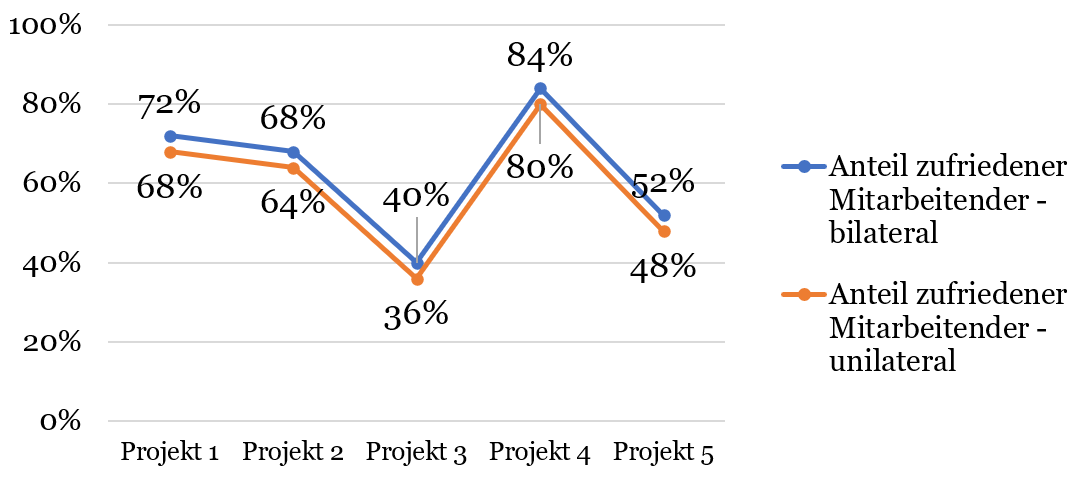
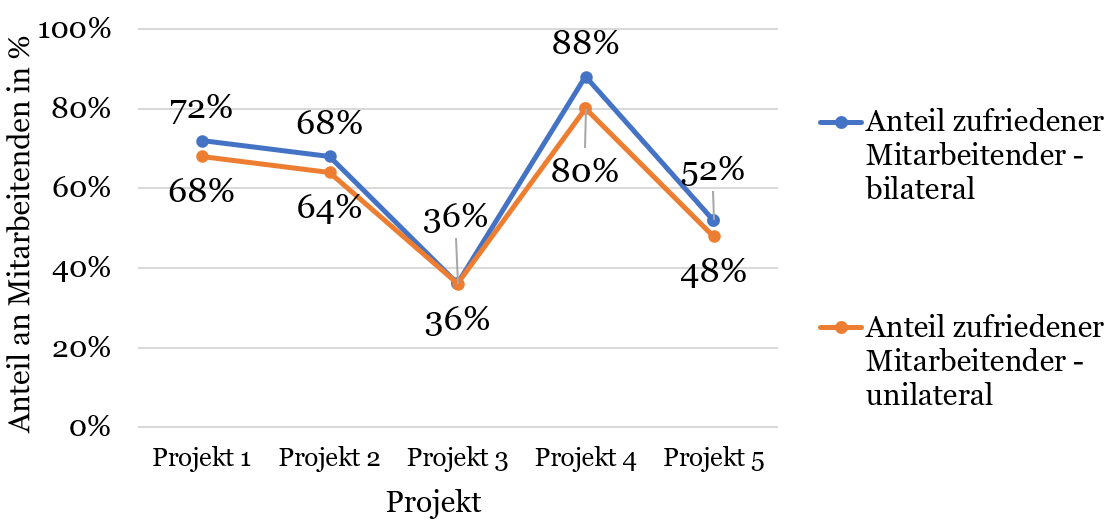
Weiterführen ergebnisse

diff --git a/chapters/ergebnisse.tex b/chapters/ergebnisse.tex
@@ -199,42 +199,108 @@ Für die Ermittlung der Auswirkung des bilateralen Algorithmus auf die Arbeitsle
 Hierbei wurden die Anteile jedoch anhand der Mitarbeitenden des unilateralen bzw. des bilateralen Rankings ermittelt, deren Arbeitsleistung von den Mitarbeitenden in dem jeweiligen Projekt als hoch eingestuft wurden.
 
 Insgesamt wurde die Veränderung der Anteile von unilateralem zu bilateralem Algorithmus je Kennzahl (Zufriedenheit, Arbeitsleistung) für 25 Projekte ermittelt (5 Samples \`{a} 5 Projekte).
-Die Veränderung der Anteile unter Einsatz des unilateralen Algorithmus zu den Anteilen unter Anwendung des bilateralen Algorithmus ist in Abbildung \ref{fig:ergebnisse:abb8} grafisch dargestellt.
-Die Abbildung stellt je Kennzahl dar, bei wie vielen der Projekte der Anteil durch den bilateralen Algorithmus im Verhältnis zum unilateralen Algorithmus gestiegen, gesunken oder gleich geblieben ist.
-Neben der Anzahl an Projekten ist in der Abbildung darüber hinaus abgebildet, in welchem Projekt eine Änderung erzielt wurde.
+% Die Veränderung der Anteile unter Einsatz des unilateralen Algorithmus zu den Anteilen unter Anwendung des bilateralen Algorithmus ist in Abbildung \ref{fig:ergebnisse:abb8} grafisch dargestellt.
+% Die Abbildung stellt je Kennzahl dar, bei wie vielen der Projekte der Anteil durch den bilateralen Algorithmus im Verhältnis zum unilateralen Algorithmus gestiegen, gesunken oder gleich geblieben ist.
+% Neben der Anzahl an Projekten ist in der Abbildung darüber hinaus abgebildet, in welchem Projekt eine Änderung erzielt wurde.
+
+% \begin{figure}[H]
+%     \centering
+% 	\includegraphics[width=0.9\textwidth]{gfx/verhaeltnis-z-a-projekte.png}
+% 	\caption[Veränderung der Zufriedenheit und erwarteten Arbeitsleistung der Mitarbeitenden von unilateralem zu bilateralem Algorithmus nach Projekt]{Veränderung der Zufriedenheit und erwarteten Arbeitsleistung der Mitarbeitenden von unilateralem zu bilateralem Algorithmus nach Projekt}
+% 	\label{fig:ergebnisse:abb8}
+% \end{figure}
+
+% Aus Abbildung \ref{fig:ergebnisse:abb8} geht hervor, dass in dem Experiment bei einem Großteil der Fälle sowohl hinsichtlich der Auswirkungen auf die Zufriedenheit als auch der zu erwartenden Arbeitsleistung weder eine Verschlechterung noch eine Verbesserung festgestellt werden konnte.
+% Weiter ist zu erkennen, dass die Anzahl an Fällen mit Verbesserungen des Anteils unter Einsatz des bilateralen Algorithmus bei beiden Kennzahlen die Anzahl an Fällen mit Verschlechterungen durch Anwendung des bilateralen Algorithmus übersteigt.
+% Ein Vergleich der der Veränderungen bei beiden Kennzahlen zeigt darüber hinaus, dass die Zufriedenheit im Verhältnis zu der erwarteten Arbeitsleistung in mehr Fällen gestiegen ist.
+% Zugleich führte der bilaterale Algorithmus in zwei Fällen zu einer Verschlechterung der zu erwarteten Arbeitsleistung und in einem Fall zu einer Verschlechterung der Zufriedenheit.
+Nachfolgend werden die Auswirkungen auf die Kennzahlen im Detail betrachtet.
+
+\subsection{Auswirkung auf die Zufriedenheit der Mitarbeitenden}
+In Abbildung \ref{fig:ergebnisse:abb8} ist der durchschnittliche Anteil an zufriedenen Mitarbeitenden an den unilateralen und an den bilateralen Rankings je Projekt dargestellt.
+Der Anteil unter Einsatz des bilateralen Algorithmus ist durch eine blaue Linie dargestellt, während der Anteil unter Anwendung des unilateralen Algorithmus durch eine orangene Linie gekennzeichnet ist.
+Abbildung \ref{fig:ergebnisse:abb8} zeigt, dass der Anteil zufriedener Mitarbeitender unter Einsatz des bilateralen Algorithmus für vier der fünf Projekt im Mittel über dem Anteil unter Anwendung des unilateralen Algorithmus lag.
+Lediglich bei Projekt 3 ist zu erkennen, dass der durchschnittliche Anteil zufriedener Mitarbeitender durch den Einsatz des bilateralen Algorithmus nicht stieg.
+% Im Mittel wurden demnach in dem Experiment sample-und projektübergreifend durch Einsatz des bilateralen Algorithmus vermehrt Mitarbeitende empfohlen, die eine hohe Zufriedenheit für die jeweiligen Projekte angaben.
 
 \begin{figure}[H]
     \centering
-	\includegraphics[width=0.9\textwidth]{gfx/verhaeltnis-z-a-projekte.png}
-	\caption[Veränderung der Zufriedenheit und erwarteten Arbeitsleistung der Mitarbeitenden von unilateralem zu bilateralem Algorithmus nach Projekt]{Veränderung der Zufriedenheit und erwarteten Arbeitsleistung der Mitarbeitenden von unilateralem zu bilateralem Algorithmus nach Projekt}
+	\includegraphics[width=0.95\textwidth]{gfx/verhaeltnis-z-durchschnitt-projekte.png}
+	\caption[Anteil zufriedener Mitarbeitender in unilateralen und bilateralen Rankings je Projekt im Mittel]{Anteil zufriedener Mitarbeitender in unilateralen und bilateralen Rankings je Projekt im Mittel}
 	\label{fig:ergebnisse:abb8}
 \end{figure}
 
-Aus Abbildung \ref{fig:ergebnisse:abb8} geht hervor, dass in dem Experiment bei einem Großteil der Fälle sowohl hinsichtlich der Auswirkungen auf die Zufriedenheit als auch der zu erwartenden Arbeitsleistung weder eine Verschlechterung noch eine Verbesserung festgestellt werden konnte.
-Weiter ist zu erkennen, dass die Anzahl an Fällen mit Verbesserungen des Anteils unter Einsatz des bilateralen Algorithmus bei beiden Kennzahlen die Anzahl an Fällen mit Verschlechterungen durch Anwendung des bilateralen Algorithmus übersteigt.
-Ein Vergleich der der Veränderungen bei beiden Kennzahlen zeigt darüber hinaus, dass die Zufriedenheit im Verhältnis zu der erwarteten Arbeitsleistung in mehr Fällen gestiegen ist.
-Zugleich führte der bilaterale Algorithmus in zwei Fällen zu einer Verschlechterung der zu erwarteten Arbeitsleistung und in einem Fall zu einer Verschlechterung der Zufriedenheit.
-Nachfolgend werden die Auswirkungen auf die beiden Kennzahlen im Detail betrachtet.
-
-\subsection{Auswirkung auf die Zufriedenheit der Mitarbeitenden}
-In Abbildung ... ist zu erkennen, dass es bei 18 der insgesamt 25 Fälle keine Änderung zwischen dem Anteil zufriedener Mitarbeitender unter Einsatz des unilateralen Algorithmus und dem Anteil zufriedener Mitarbeitender unter Anwendung des bilateralen Algorithmus gegeben hat.
-
-In Abbildung \ref{fig:ergebnisse:abb9} ist der durchschnittliche Anteil an zufriedenen Mitarbeitenden an den unilateralen und an den bilateralen Rankings je Projekt dargestellt.
-Daran ist zu erkennen, dass sample-und projektübergreifend durch Einsatz des bilateralen Algorithmus vermehrt Mitarbeitende empfohlen wurden, die eine hohe Zufriedenheit für die jeweiligen Projekte angaben.
+Für eine detailliertere Betrachtung der Auswirkung auf die Zufriedenheit ist die Veränderung der Anteile unter Einsatz des unilateralen Algorithmus zu den Anteilen unter Anwendung des bilateralen Algorithmus je Sample und Projekt in Abbildung \ref{fig:ergebnisse:abb9} dargestellt.
+Die Abbildung zeigt, bei wie vielen der Projekte der Anteil zufriedener Mitarbeitender durch den bilateralen Algorithmus im Verhältnis zum unilateralen Algorithmus gestiegen, gesunken oder gleich geblieben ist.
+Neben der Anzahl an Projekten ist in der Abbildung darüber hinaus abgebildet, in welchem Projekt die jeweilige Änderung erzielt wurde.
 
 \begin{figure}[H]
     \centering
-	\includegraphics[width=0.9\textwidth]{gfx/verhaeltnis-z-durchschnitt-projekte.png}
-	\caption[Anteil zufriedener Mitarbeitender in unilateralen und bilateralen Rankings je Projekt im Mittel]{Anteil zufriedener Mitarbeitender in unilateralen und bilateralen Rankings je Projekt im Mittel}
+	\includegraphics[width=0.95\textwidth]{gfx/verhaeltnis-z-projekte.png}
+	\caption[Veränderung der Zufriedenheit der Mitarbeitenden von unilateralem zu bilateralem Algorithmus nach Projekt]{Veränderung der Zufriedenheit der Mitarbeitenden von unilateralem zu bilateralem Algorithmus nach Projekt}
 	\label{fig:ergebnisse:abb9}
 \end{figure}
 
-\subsection{Auswirkung auf die erwartete Arbeitsleistung der Mitarbeitenden durch die Manager}
-Ein ähnliches Muster wird bei Betrachtung der Auswirkung auf die zu erwartende Arbeitsleistung der Mitarbeitenden durch die Manager deutlich.
-Die Anzahl an Fällen ohne Änderung zwischen dem Anteil an Mitarbeitenden mit zu erwartend hoher Arbeitsleistung durch Einsatz des unilateralen Algorithmus und dem Anteil an Mitarbeitenden mit zu erwartend hoher Arbeitsleistung unter Anwendung des bilateralen Algorithmus lag hier bei 19.
+Aus Abbildung \ref{fig:ergebnisse:abb9} geht hervor, dass in dem Experiment bei 16 der 25 Fälle hinsichtlich der Auswirkungen auf die Zufriedenheit weder eine Verschlechterung noch eine Verbesserung festgestellt werden konnte.
+Weiter ist zu erkennen, dass durch den Einsatz des bilateralen Algorithmus in 28 Prozent der Fällen (7 von 25) eine Steigerung der Zufriedenheit unter den empfohlenen Mitarbeitenden erzielt wurde.
+Lediglich in zei der 25 Fälle führte der Einsatz des bilateralen Algorithmus zu einer Reduktion des Anteils zufriedener Mitarbeitender im Vergleich zu dem Anteil unter Anwendung des unilateralen Algorithmus.
+Aus der Abbildung geht hervor, dass beide Fälle bei Projekt 3 auftraten (hellblauer Balken bei "gesunken").
 
+% Ein Vergleich der der Veränderungen bei beiden Kennzahlen zeigt darüber hinaus, dass die Zufriedenheit im Verhältnis zu der erwarteten Arbeitsleistung in mehr Fällen gestiegen ist.
+% Zugleich führte der bilaterale Algorithmus in zwei Fällen zu einer Verschlechterung der zu erwarteten Arbeitsleistung und in einem Fall zu einer Verschlechterung der Zufriedenheit.
+
+\subsection{Auswirkung auf die erwartete Arbeitsleistung der Mitarbeitenden}
+Hinsichtlich der zu erwartenden Arbeitsleistung der Mitarbeitenden ist in Abbildung \ref{fig:ergebnisse:abb10} der durchschnittliche Anteil an Mitarbeitenden mit zu erwartend hoher Arbeitsleistung an den unilateralen und an den bilateralen Rankings je Projekt abgebildet.
+Wie für die Zufriedenheit in Abbildung \ref{fig:ergebnisse:abb8} ist der Anteil unter Einsatz des bilateralen Algorithmus durch eine blaue und der Anteil unter Anwendung des unilateralen Algorithmus durch eine orangene Linie gekennzeichnet.
+
+\begin{figure}[H]
+    \centering
+	\includegraphics[width=0.95\textwidth]{gfx/verhaeltnis-a-durchschnitt-projekte.png}
+	\caption[Anteil an Mitarbeitenden mit zu erwartend hoher Arbeitsleistung in unilateralen und bilateralen Rankings je Projekt im Mittel]{Anteil an Mitarbeitenden mit zu erwartend hoher Arbeitsleistung in unilateralen und bilateralen Rankings je Projekt im Mittel}
+	\label{fig:ergebnisse:abb10}
+\end{figure}
+
+Abbildung \ref{fig:ergebnisse:abb10} zeigt, dass der durchschnittliche Anteil an Mitarbeitenden mit zu erwartend hoher Arbeitsleistungunter Einsatz des bilateralen Algorithmus bei Projekt 3 und Projekt 4 im Mittel über dem durchschnittlichen Anteil unter Anwendung des unilateralen Algorithmus lag.
+Weiter ist zu erkennen, dass der Anteil im Durchschnitt in keinem der Projekte unter Anwendung des bilateralen Algorithmus unter dem durchschnittlichen Anteil unter Einsatz des unilateralen Algorithmus lag.
+
+Ein Vergleich der durchschnittlichen Anteile je Projekt aus Abbildung \ref{fig:ergebnisse:abb10} mit den durchschnittlichen Anteilen zufriedener Mitarbeitender je Projekt in Abbildung \ref{fig:ergebnisse:abb8} zeigt, dass die Kurven einen ähnlichen Verlauf aufweisen.
+So ist sowohl der durchschnittliche Anteil zufriedener Mitarbeitender als auch der durchschnittliche Anteil an Mitarbeitenden mit zu erwartend hoher Arbeitsleistung bei Projekt 3 am niedrigsten.
+Zugleich ist der durchschnittliche Anteil beider Kennzahlen bei Projekt 4 am höchsten.
+Eine Ausnahme davon bildet lediglich der durchschnittliche Anteil an Mitarbeitenden mit zu erwartend hoher Arbeitsleistung unter Einsatz des unilateralen Algorithmus.
+Dessen Höhepunkt liegt bei Projekt 1.
+
+Abbildung \ref{fig:ergebnisse:abb11} stellt die Veränderung der Anteile an Mitarbeitenden mit zu erwartend hoher Arbeitsleistung unter Einsatz des unilateralen Algorithmus zu den Anteilen unter Anwendung des bilateralen Algorithmus je Sample und Projekt dar.
+
+\begin{figure}[H]
+    \centering
+	\includegraphics[width=0.95\textwidth]{gfx/verhaeltnis-a-projekte.png}
+	\caption[Veränderung der erwarteten Arbeitsleistung der Mitarbeitenden durch die Manager von unilateralem zu bilateralem Algorithmus nach Projekt]{Veränderung der erwarteten Arbeitsleistung der Mitarbeitenden durch die Manager von unilateralem zu bilateralem Algorithmus nach Projekt}
+	\label{fig:ergebnisse:abb11}
+\end{figure}
+
+Daraus geht hervor, dass in dem Experiment bei 17 der 25 Fälle hinsichtlich der Auswirkungen auf die erwartete Arbeitsleistung weder eine Verschlechterung noch eine Verbesserung festgestellt werden konnte.
+In der Abbildung ist zu erkennen, dass sowohl Projekt 1 als auch Projekt 5 sample-übergreifend überhaupt keine Veränderung aufwiesen (blauer und grauer Balken bei "gleich").
+Weiter ist zu erkennen, dass der Anteil an Mitarbeitenden mit zu erwartend hoher Arbeitsleistung durch den Einsatz des bilateralen Algorithmus sogar in 5 der 25 Fälle im Vergleich zu dem Anteil unter Anwendung des unilateralen Algorithmus gestiegen ist.
+In drei der 25 Fälle führte der Einsatz des bilateralen Algorithmus zu einer Reduktion des Anteils an Mitarbeitenden mit zu erwartend hoher Arbeitsleistung im Vergleich zu dem Anteil unter Anwendung des unilateralen Algorithmus.
+Aus der Abbildung geht hervor, dass diese ReduktionFälle bei Projekt 2 und Projekt 3 auftraten (hellgrauer und -blauer Balken bei "gesunken").
 
 \subsection{Einfluss der Gewichtung von Fähigkeiten und Präferenzen}
+
+\begin{figure}[H]
+    \centering
+	\includegraphics[width=0.95\textwidth]{gfx/verhaeltnis-z-nach-alpha.png}
+	\caption[Anteil zufriedener Mitarbeitender in unilateralen und bilateralen Rankings nach $\alpha$-Wert im Mittel]{Anteil zufriedener Mitarbeitender in unilateralen und bilateralen Rankings nach $\alpha$-Wert im Mittel}
+	\label{fig:ergebnisse:abb12}
+\end{figure}
+
+\begin{figure}[H]
+    \centering
+	\includegraphics[width=0.95\textwidth]{gfx/verhaeltnis-a-nach-alpha.png}
+	\caption[Anteil an Mitarbeitenden mit zu erwartend hoher Arbeitsleistung in unilateralen und bilateralen Rankings nach $\alpha$-Wert im Mittel]{Anteil an Mitarbeitenden mit zu erwartend hoher Arbeitsleistung in unilateralen und bilateralen Rankings nach $\alpha$-Wert im Mittel}
+	\label{fig:ergebnisse:abb13}
+\end{figure}
+
+% GRAPHEN ANPASSEN!
 
 
 \shorthandon{"}

diff --git a/chapters/diskussion.tex b/chapters/diskussion.tex
@@ -9,6 +9,10 @@
 % Für die diskussion bzgl. der ergebnisse bei den ergebnissen auf kommentare achten!
 % Hier auf die unterschiede zwischen histogramm und zufriedenheit bzw. erwartete arbeitsleistung angaben hinweisen!
 
+%Ein Vergleich der Veränderungen bei beiden Kennzahlen zeigt zudem, dass die Zufriedenheit im Verhältnis zu der erwarteten Arbeitsleistung in mehr Fällen gestiegen ist.
+% Zugleich führte der bilaterale Algorithmus in zwei Fällen zu einer Verschlechterung der zu erwarteten Arbeitsleistung und in einem Fall zu einer Verschlechterung der Zufriedenheit.
+
+
 % Fragen:
 % \begin{itemize}
 %     \item Was sind Randfälle? Bspw. 0.9 anforderungs-fähigkeiten-fit und 0.1 bedürfnisse-angebot-fit. Wenn der PJ fit nicht ganz erfüllt ist, geht es dann trotzdem vor weiterhin die MA-Präferenzen zu berücksichtigen, unter der Prämisse, dass dann ggf. skills eingespart werdne müssen, oder gilt das nur, wenn sowieso alle die skills erfüllen? Was sind realistische Randbedingungen? -> habe ich dann lieber MA, die unzufrieden sind, oder Projekte, die nicht gestafft werden können?
